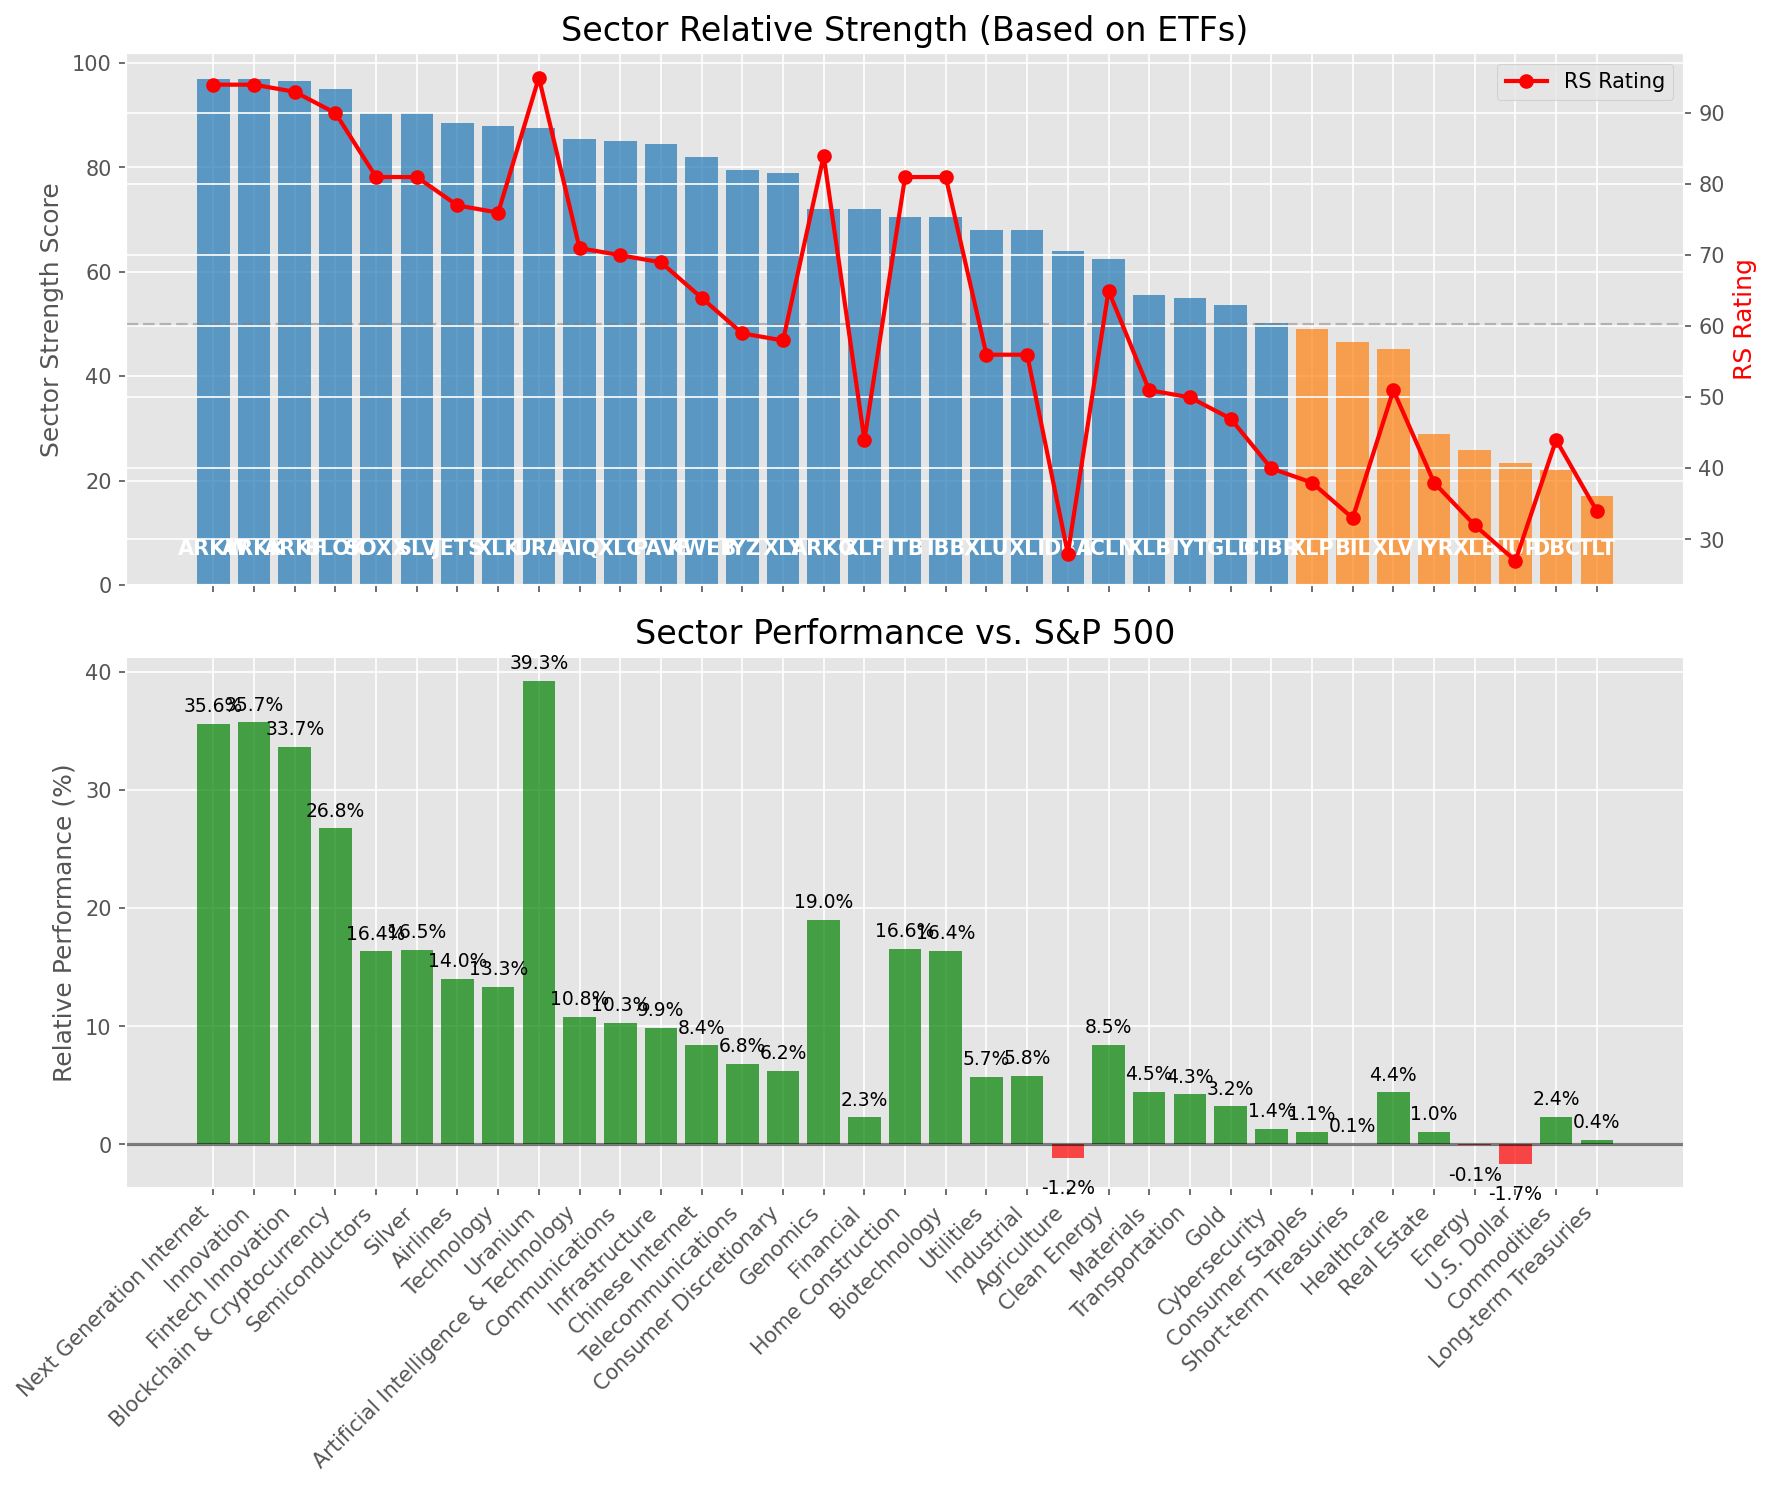
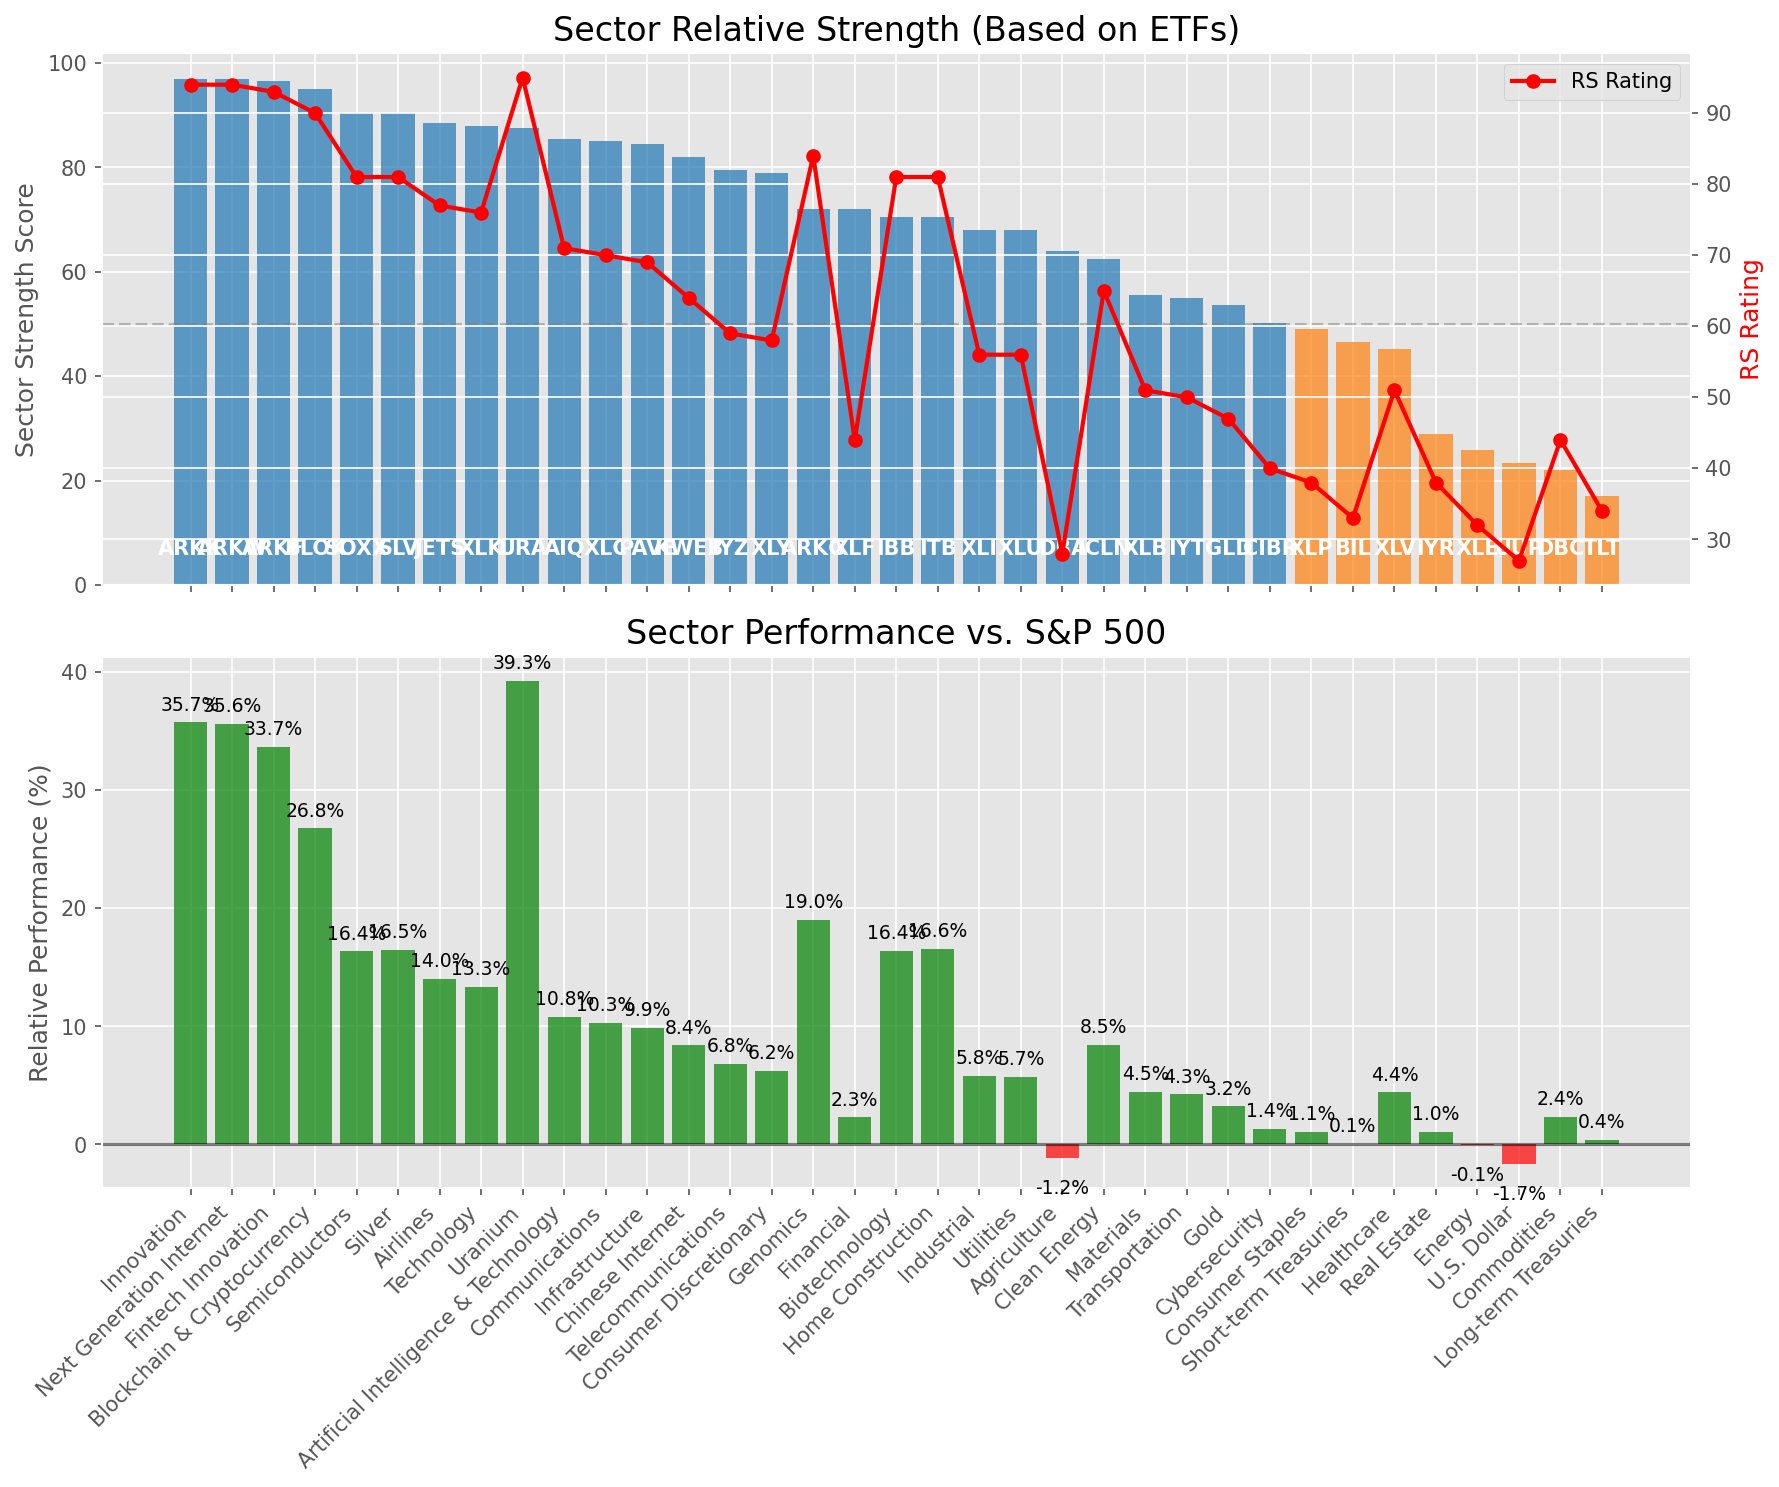
Add market report for 2025-08-16

diff --git a/oneil_relative_strength_report_2025-08-16.md b/oneil_relative_strength_report_2025-08-16.md
@@ -49,8 +49,8 @@ Based on William O'Neil's Relative Strength Methodology
 
 | ETF | Strength | RS Rating | Performance | Above Key MAs | Trend | Sector |
 |-----|----------|-----------|-------------|--------------|-------|--------|
-| [ARKW](https://www.tradingview.com/chart/?symbol=ARKW) | 97.0 | 94.0 | 35.63% | 10d ✓, 50d ✓, 200d ✓ | ↗ | Next Generation Internet |
 | [ARKK](https://www.tradingview.com/chart/?symbol=ARKK) | 97.0 | 94.0 | 35.75% | 10d ✓, 50d ✓, 200d ✓ | ↗ | Innovation |
+| [ARKW](https://www.tradingview.com/chart/?symbol=ARKW) | 97.0 | 94.0 | 35.63% | 10d ✓, 50d ✓, 200d ✓ | ↗ | Next Generation Internet |
 | [ARKF](https://www.tradingview.com/chart/?symbol=ARKF) | 96.5 | 93.0 | 33.68% | 10d ✓, 50d ✓, 200d ✓ | ↗ | Fintech Innovation |
 | [BLOK](https://www.tradingview.com/chart/?symbol=BLOK) | 95.0 | 90.0 | 26.78% | 10d ✓, 50d ✓, 200d ✓ | ↗ | Blockchain & Cryptocurrency |
 | [SOXX](https://www.tradingview.com/chart/?symbol=SOXX) | 90.5 | 81.0 | 16.36% | 10d ✓, 50d ✓, 200d ✓ | ↗ | Semiconductors |
@@ -66,10 +66,10 @@ Based on William O'Neil's Relative Strength Methodology
 | [XLY](https://www.tradingview.com/chart/?symbol=XLY) | 79.0 | 58.0 | 6.22% | 10d ✓, 50d ✓, 200d ✓ | ↗ | Consumer Discretionary |
 | [ARKG](https://www.tradingview.com/chart/?symbol=ARKG) | 72.0 | 84.0 | 19.00% | 10d ✓, 50d ✓, 200d ✓ | ↘ | Genomics |
 | [XLF](https://www.tradingview.com/chart/?symbol=XLF) | 72.0 | 44.0 | 2.30% | 10d ✓, 50d ✓, 200d ✓ | ↗ | Financial |
-| [ITB](https://www.tradingview.com/chart/?symbol=ITB) | 70.5 | 81.0 | 16.56% | 10d ✓, 50d ✓, 200d ✓ | ↘ | Home Construction |
 | [IBB](https://www.tradingview.com/chart/?symbol=IBB) | 70.5 | 81.0 | 16.37% | 10d ✓, 50d ✓, 200d ✓ | ↘ | Biotechnology |
-| [XLU](https://www.tradingview.com/chart/?symbol=XLU) | 68.1 | 56.0 | 5.72% | 10d ✗, 50d ✓, 200d ✓ | ↗ | Utilities |
+| [ITB](https://www.tradingview.com/chart/?symbol=ITB) | 70.5 | 81.0 | 16.56% | 10d ✓, 50d ✓, 200d ✓ | ↘ | Home Construction |
 | [XLI](https://www.tradingview.com/chart/?symbol=XLI) | 68.1 | 56.0 | 5.82% | 10d ✗, 50d ✓, 200d ✓ | ↗ | Industrial |
+| [XLU](https://www.tradingview.com/chart/?symbol=XLU) | 68.1 | 56.0 | 5.72% | 10d ✗, 50d ✓, 200d ✓ | ↗ | Utilities |
 | [DBA](https://www.tradingview.com/chart/?symbol=DBA) | 64.0 | 28.0 | -1.17% | 10d ✓, 50d ✓, 200d ✓ | ↗ | Agriculture |
 | [ICLN](https://www.tradingview.com/chart/?symbol=ICLN) | 62.5 | 65.0 | 8.46% | 10d ✓, 50d ✓, 200d ✓ | ↘ | Clean Energy |
 | [XLB](https://www.tradingview.com/chart/?symbol=XLB) | 55.5 | 51.0 | 4.48% | 10d ✓, 50d ✓, 200d ✓ | ↘ | Materials |
@@ -98,9 +98,9 @@ This table shows the relative strength metrics for different market sectors base
 
 ### **Current Sector Leadership**
 
-The current market leadership is coming from the following sectors: **Next Generation Internet, Innovation, Fintech Innovation**.
+The current market leadership is coming from the following sectors: **Innovation, Next Generation Internet, Fintech Innovation**.
 
-The **Next Generation Internet** sector (represented by **ARKW**) is showing particularly strong relative strength with an RS rating of 94.0 and performance of 35.63% vs. the S&P 500. This sector is trading above its 10-day, 50-day, 200-day moving average(s). Investors should consider focusing on high RS stocks within these leading sectors for potential outperformance.
+The **Innovation** sector (represented by **ARKK**) is showing particularly strong relative strength with an RS rating of 94.0 and performance of 35.75% vs. the S&P 500. This sector is trading above its 10-day, 50-day, 200-day moving average(s). Investors should consider focusing on high RS stocks within these leading sectors for potential outperformance.
 
 ---
 
